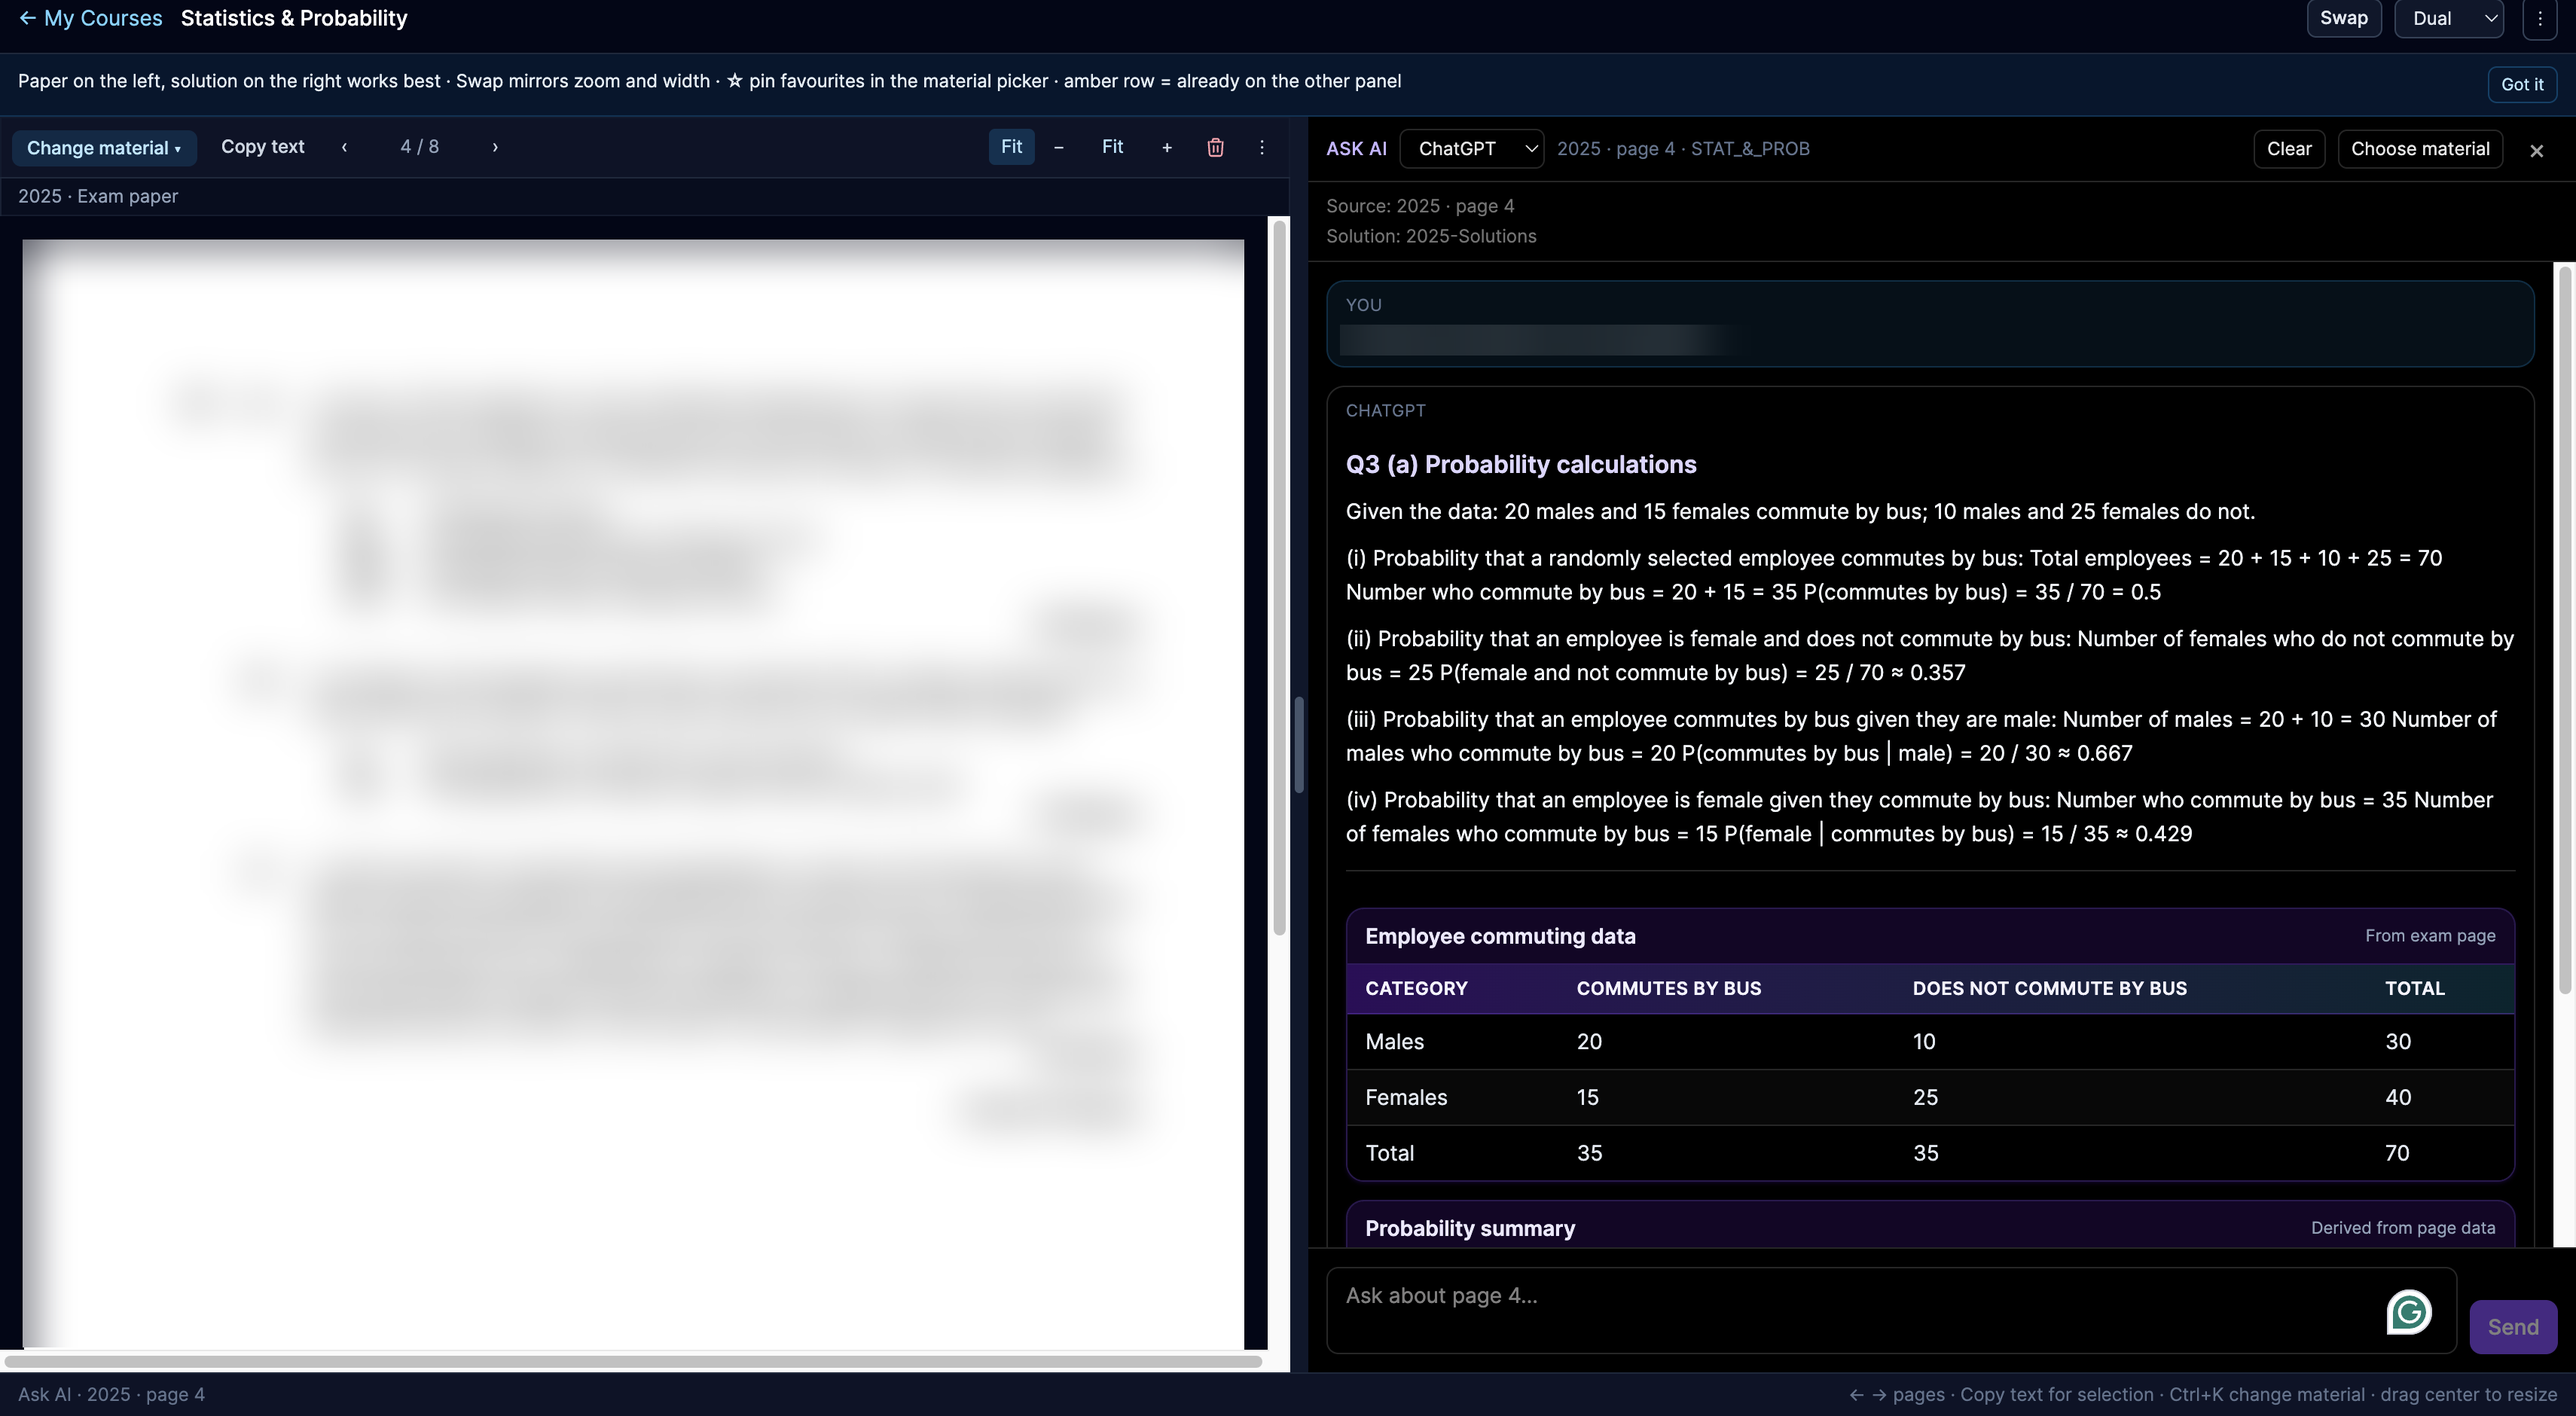
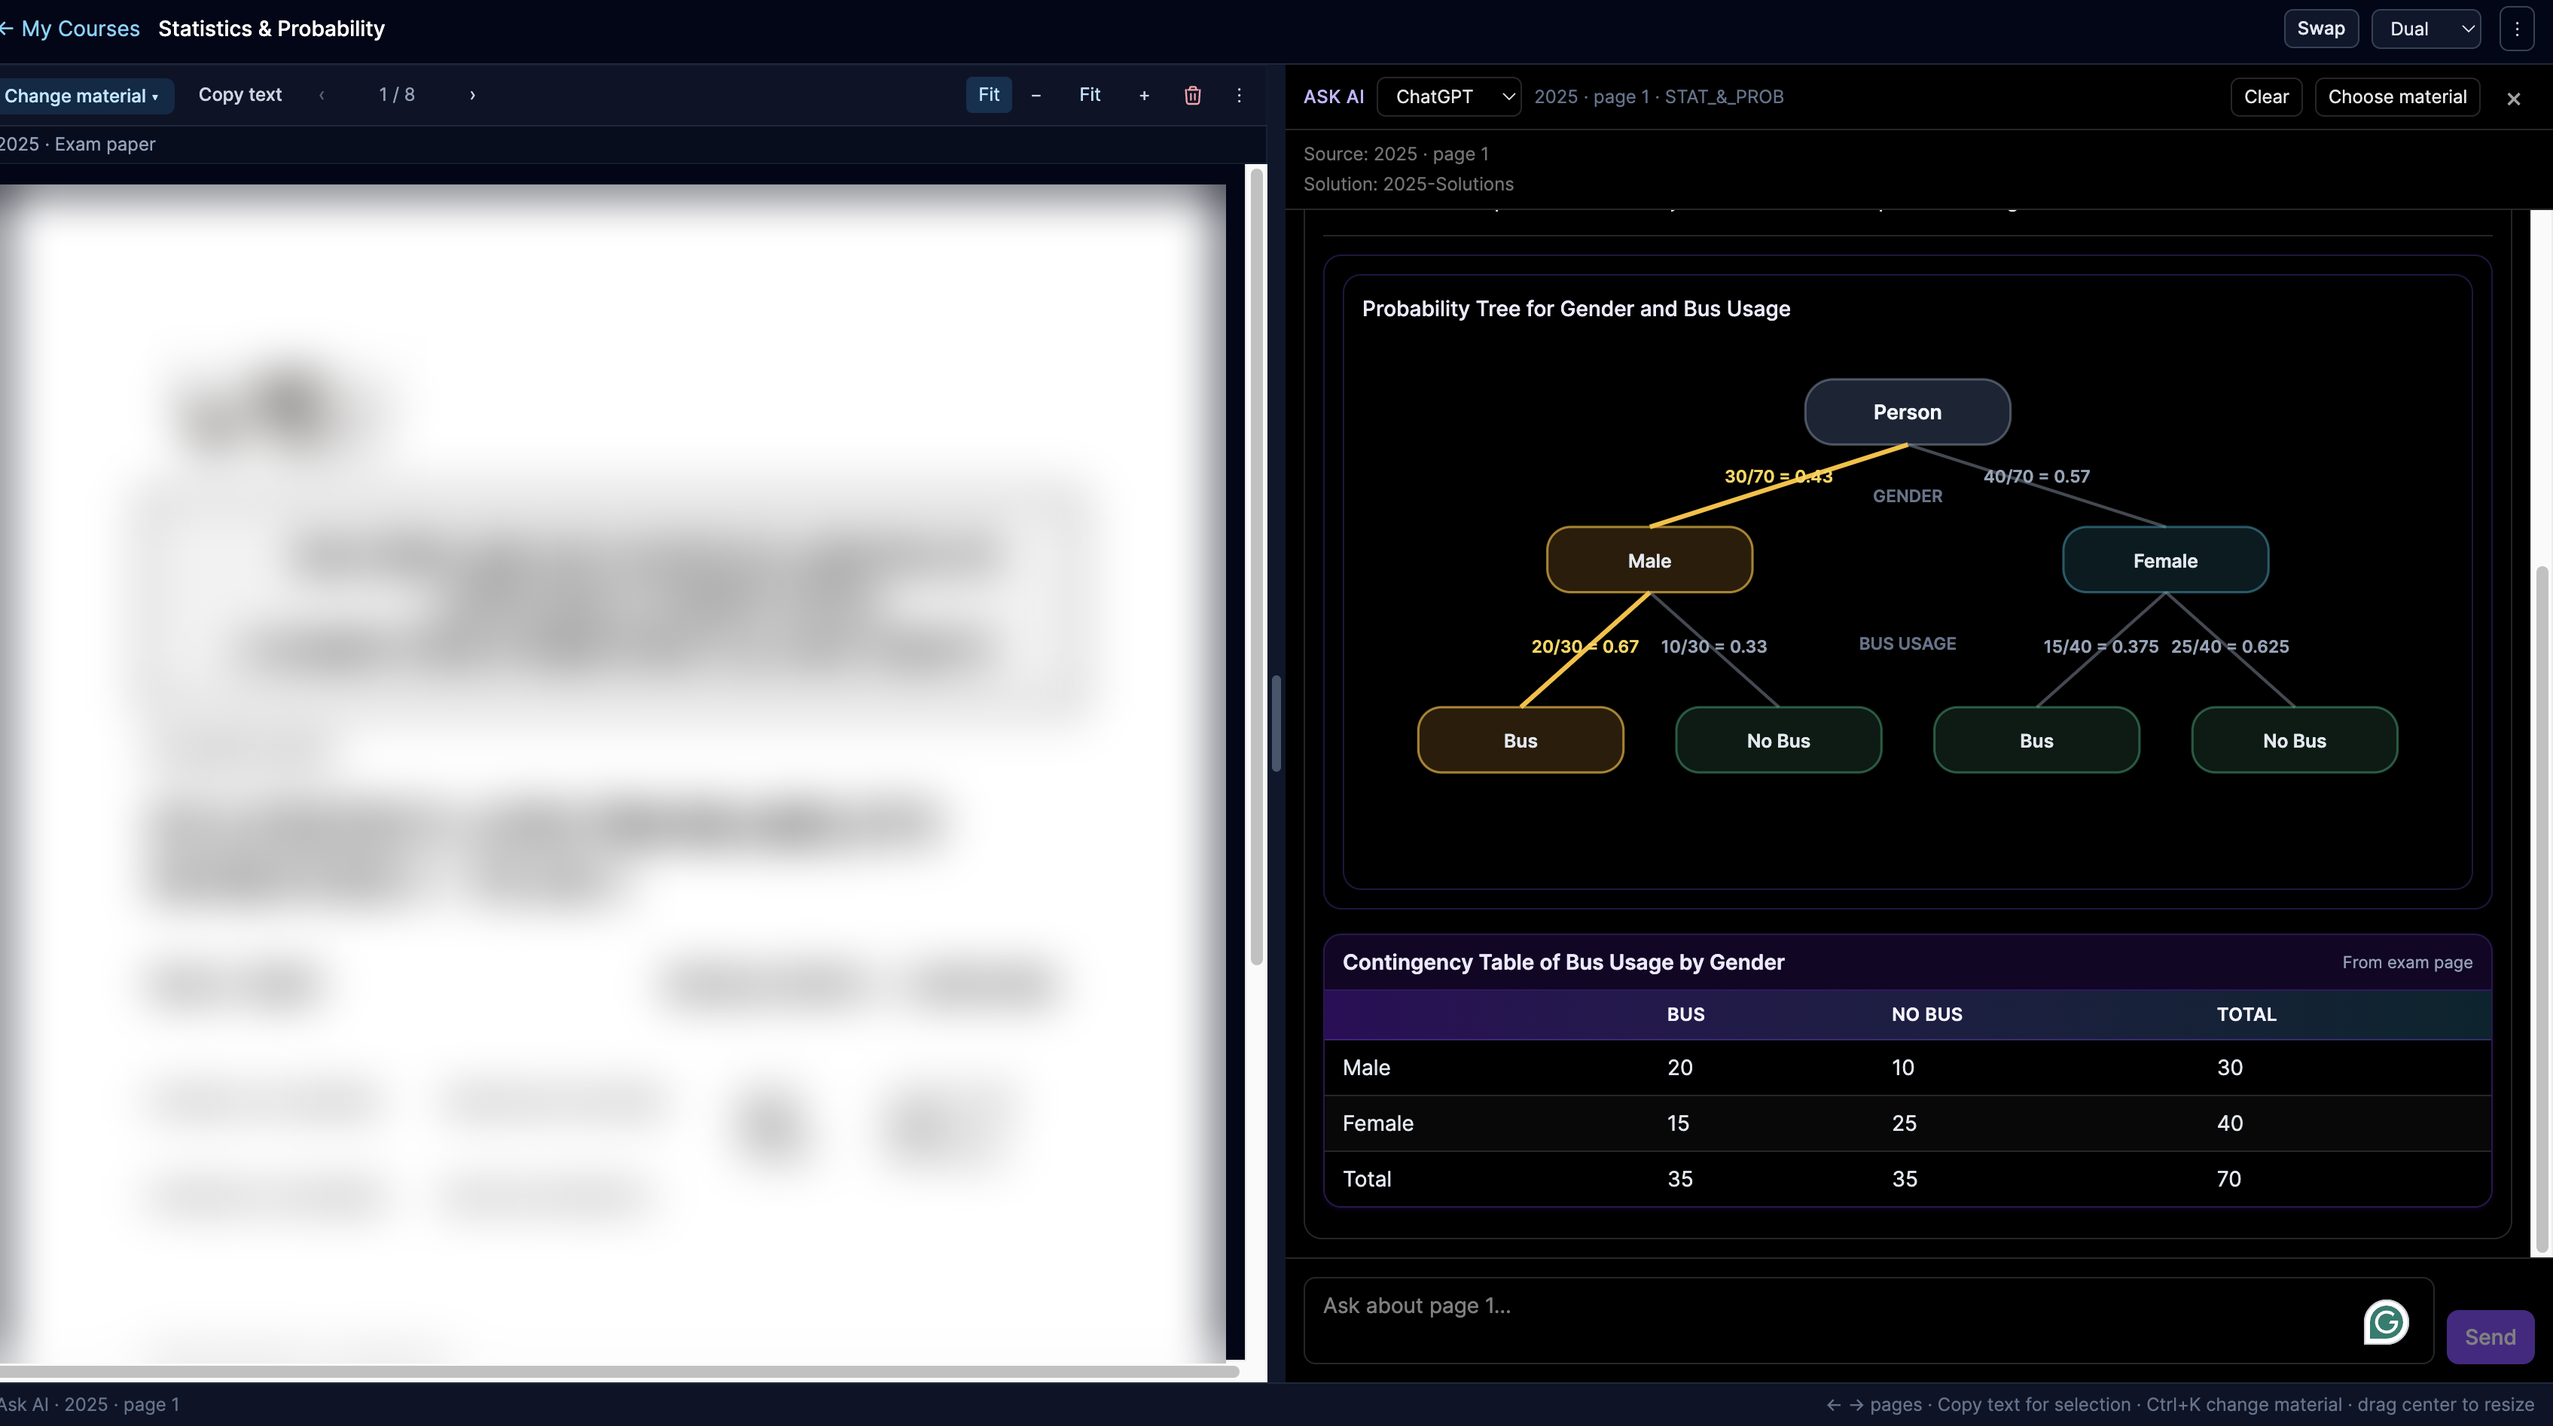
Use probability-tree AI answer as README screenshot
Claude-Session: https://claude.ai/code/session_015YhVEi6tK6WGZesUjExeiY

diff --git a/README.md b/README.md
@@ -5,7 +5,7 @@
 - **Dual-panel workspace.** Open an exam paper and its solution (or your notes) side by side, with page navigation, zoom and swap.
 - **AI tutor.** Ask about the page you are reading. The request type (hint, solve, explain, extract, visualise) is detected, and the prompt is built from the exam page, the official solution and course materials.
 
-  ![AI tutor answering an exam question with worked steps and a data table](docs/screenshots/ai-tutor.png)
+  ![AI tutor drawing a probability tree and contingency table for an exam question](docs/screenshots/ai-tutor.png)
 
 - **Structured, visual AI answers.** The model returns JSON that the backend validates; the frontend renders it with real libraries: **Plotly** (charts, boxplots, histograms, regression, probability trees), **KaTeX** (formulas), **Mermaid** (diagrams) and styled tables. Answers are cached.
 - **Hints before answers.** A hint mode gives only the first step, and solutions can be compared with the official marking scheme.
